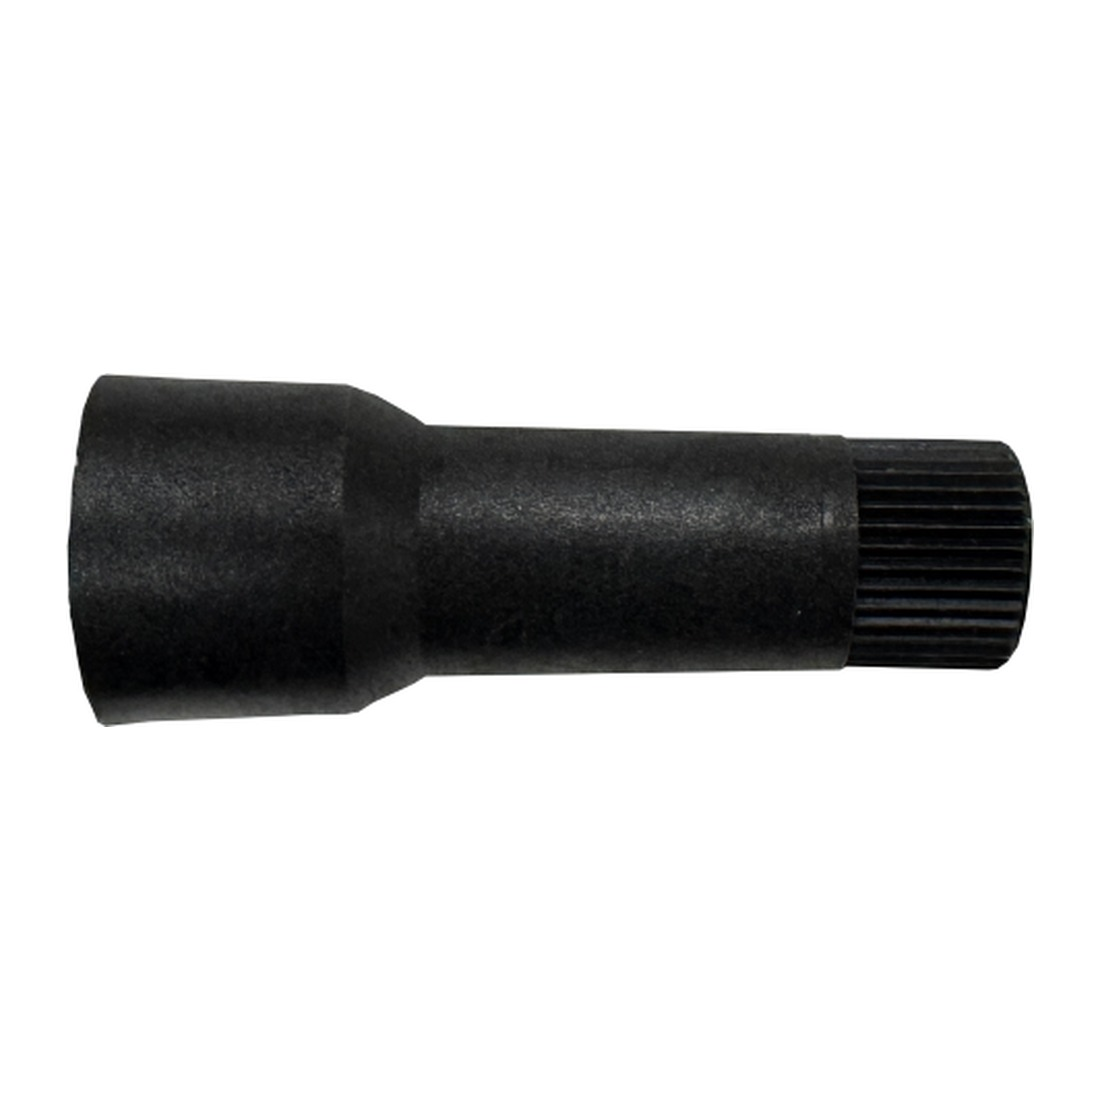
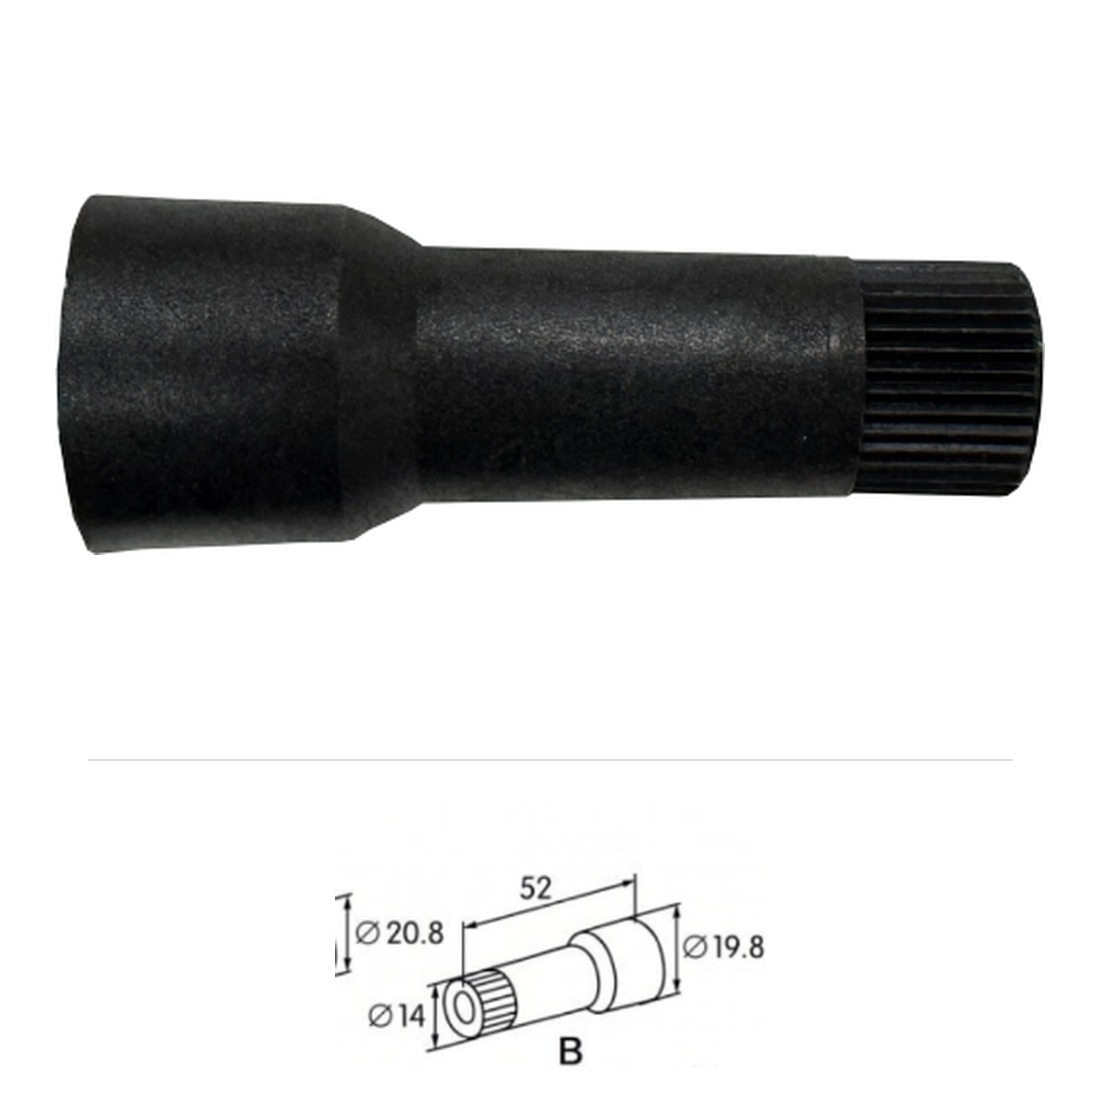
Add Option B dimension drawing to Electrode Boot Cap Type B product photo
Composited the Option B technical drawing (cropped from the 8-option
reference sheet: 52mm length, Ø20.8mm body, Ø19.8mm grip-end, Ø14mm bore)
below the product photo on the same white canvas, matching the site's
existing convention of baking the dimension diagram into the product image
(as on the ignition electrode and cable lug product photos).

Updated alt text on the standalone page to mention the dimension diagram.

Claude-Session: https://claude.ai/code/session_01UnG6akhatueuxTqmjNdZwn

diff --git a/products/rkic-cap-connector-bakelite-straight.html b/products/rkic-cap-connector-bakelite-straight.html
@@ -539,12 +539,12 @@ footer{ background:var(--steel); color:var(--ink); margin-top:56px; }
   <a class="pg-back" href="../categories/ignition-spares.html">&larr; Back to Ignition Spares</a>
   <div class="pg-grid">
     <div class="pg-img-box" id="pgImgBox">
-      <img src="../images/rkic-cap-connector-bakelite-straight-large.jpg" alt="Ignition Spark Cable Boot &mdash; Straight Bakelite Cap Connector (Black) by R.K. Instruments &amp; Controls, black bakelite straight ignition electrode connector" loading="lazy">
+      <img src="../images/rkic-cap-connector-bakelite-straight-large.jpg" alt="Ignition Spark Cable Boot &mdash; Straight Bakelite Cap Connector (Black) by R.K. Instruments &amp; Controls, black bakelite straight ignition electrode connector, with dimension diagram" loading="lazy">
       <span class="pg-zoom-hint" aria-hidden="true"><svg viewBox="0 0 24 24" fill="none" stroke="currentColor" stroke-width="2"><circle cx="11" cy="11" r="7"></circle><line x1="21" y1="21" x2="16.65" y2="16.65"></line><line x1="8" y1="11" x2="14" y2="11"></line><line x1="11" y1="8" x2="11" y2="14"></line></svg></span>
     </div>
     <div class="pg-lightbox" id="pgLightbox">
       <button class="pg-lightbox-close" id="pgLightboxClose" aria-label="Close">&times;</button>
-      <img src="../images/rkic-cap-connector-bakelite-straight-large.jpg" alt="Ignition Spark Cable Boot &mdash; Straight Bakelite Cap Connector (Black) by R.K. Instruments &amp; Controls, black bakelite straight ignition electrode connector — zoomed view">
+      <img src="../images/rkic-cap-connector-bakelite-straight-large.jpg" alt="Ignition Spark Cable Boot &mdash; Straight Bakelite Cap Connector (Black) by R.K. Instruments &amp; Controls, black bakelite straight ignition electrode connector, with dimension diagram — zoomed view">
     </div>
     <div>
       <div class="pg-tags">
